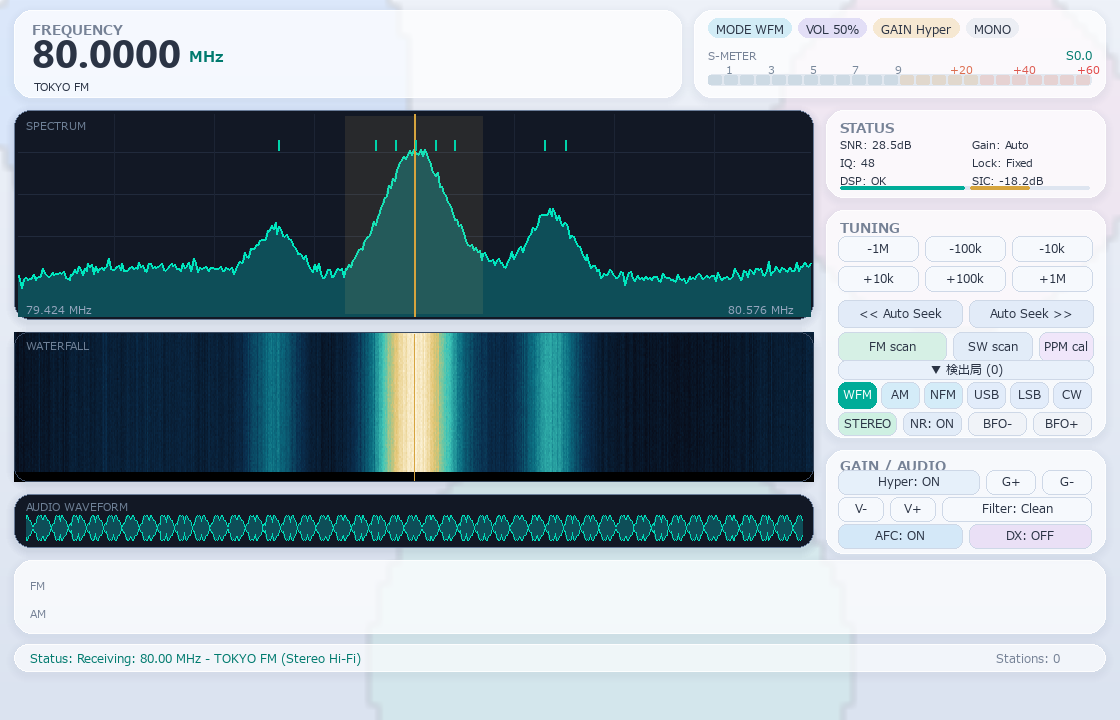
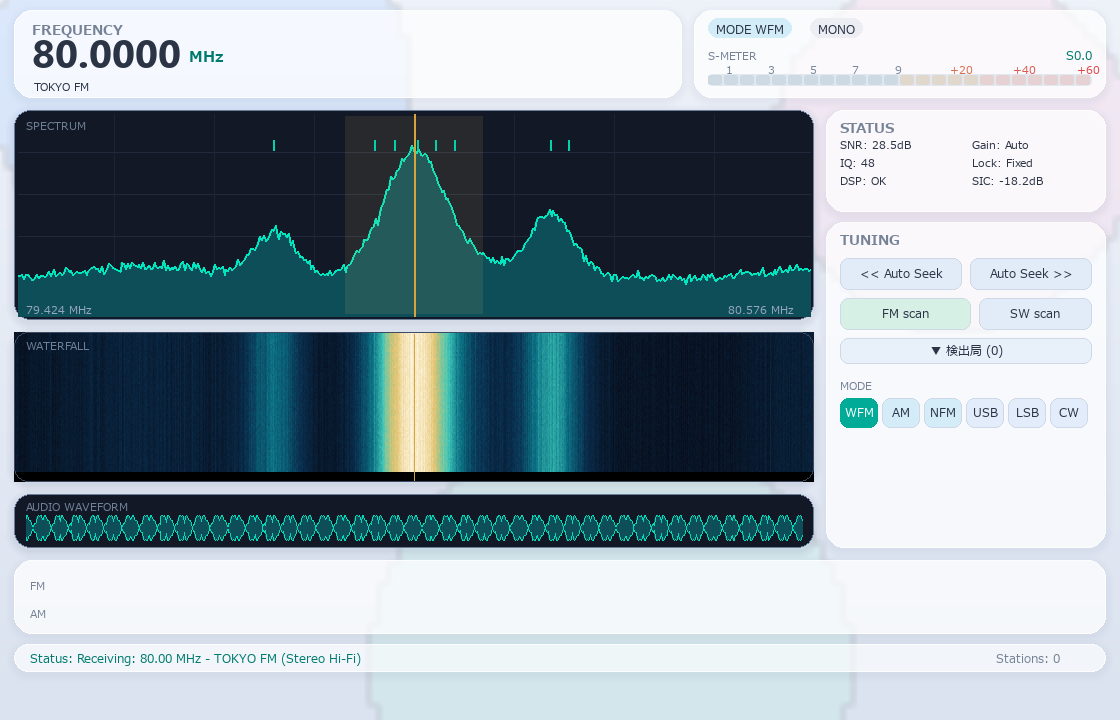
style(gui): rebalance into clean 2-panel sidebar and refine button layout

diff --git a/gui.py b/gui.py
@@ -239,9 +239,9 @@ class SdrGui:
         self.spec_rect = pygame.Rect(14, 110, 800, 210)
         self.wf_rect = pygame.Rect(14, 332, 800, 150)
         self.wave_rect = pygame.Rect(14, 494, 800, 54)
-        self.tele_rect = pygame.Rect(826, 110, 280, 88)
-        self.tune_rect = pygame.Rect(826, 210, 280, 228)
-        self.gain_rect = pygame.Rect(826, 450, 280, 104)
+        self.tele_rect = pygame.Rect(826, 110, 280, 102)
+        self.tune_rect = pygame.Rect(826, 222, 280, 326)
+        self.gain_rect = pygame.Rect(826, 548, 0, 0)
         self.preset_rect = pygame.Rect(14, 560, 1092, 74)
         self.status_rect = pygame.Rect(14, 644, 1092, 28)
 
@@ -357,9 +357,10 @@ class SdrGui:
         for name, rect in (
             ("hero", self.hero_rect), ("info", self.info_rect),
             ("tele", self.tele_rect), ("tune", self.tune_rect),
-            ("gain", self.gain_rect), ("preset", self.preset_rect),
+            ("preset", self.preset_rect),
         ):
             self.panels[name] = self._glass(rect.width, rect.height)
+        self.panels["gain"] = (pygame.Surface((1, 1), pygame.SRCALPHA), 0)
         self.panels["spec"] = self._glass(self.spec_rect.width, self.spec_rect.height,
                                           radius=16, tint=(17, 23, 36), dark=True)
         self.panels["wf"] = self._glass(self.wf_rect.width, self.wf_rect.height,
@@ -375,7 +376,7 @@ class SdrGui:
         for name, rect in (
             ("hero", self.hero_rect), ("info", self.info_rect),
             ("tele", self.tele_rect), ("tune", self.tune_rect),
-            ("gain", self.gain_rect), ("preset", self.preset_rect),
+            ("preset", self.preset_rect),
             ("spec", self.spec_rect), ("wf", self.wf_rect),
             ("wave", self.wave_rect), ("status", self.status_rect),
         ):
@@ -387,9 +388,6 @@ class SdrGui:
         baked.blit(lbl_tune, (self.tune_rect.x + 14, self.tune_rect.y + 8))
         lbl_mode = cached_text(self.font_tiny, t("mode"), C_MUTED)
         baked.blit(lbl_mode, (self.tune_rect.x + 14, self.tune_rect.y + 156))
-
-        lbl_gain = cached_text(self.font_title, t("gain_audio"), C_MUTED)
-        baked.blit(lbl_gain, (self.gain_rect.x + 14, self.gain_rect.y + 6))
 
         lbl_tele = cached_text(self.font_title, t("status"), C_MUTED)
         baked.blit(lbl_tele, (self.tele_rect.x + 14, self.tele_rect.y + 8))
@@ -456,22 +454,25 @@ class SdrGui:
     def _init_controls(self):
         btns = []
 
-        # ---- TUNINGパネル (周波数ステップは検出局プルダウンに一本化し廃止) ----
-        tx, tw = self.tune_rect.x + 12, self.tune_rect.width - 24
-        half = (tw - 6) // 2
-        self.btn_seek_prev = Button((tx, 300, half, 28), "<< Auto Seek", lambda: self._seek(-1),
+        # ---- TUNINGパネル (上からバランスよくゆったり配置) ----
+        tx, tw = self.tune_rect.x + 14, self.tune_rect.width - 28
+        half = (tw - 8) // 2
+        y_seek = self.tune_rect.y + 36
+        self.btn_seek_prev = Button((tx, y_seek, half, 32), "<< Auto Seek", lambda: self._seek(-1),
                                     bg_color=(226, 235, 248), active_color=C_BTN_ACTIVE2)
-        self.btn_seek_next = Button((tx + half + 6, 300, half, 28), "Auto Seek >>", lambda: self._seek(1),
+        self.btn_seek_next = Button((tx + half + 8, y_seek, half, 32), "Auto Seek >>", lambda: self._seek(1),
                                     bg_color=(226, 235, 248), active_color=C_BTN_ACTIVE2)
-        fm_w = int((tw - 6) * 0.55)
-        sw_w = tw - fm_w - 6
-        self.btn_scan_band = Button((tx, 332, fm_w, 30), t("scan_button"), self._request_scan,
+        fm_w = int((tw - 8) * 0.54)
+        sw_w = tw - 8 - fm_w
+        y_scan = y_seek + 32 + 8
+        self.btn_scan_band = Button((tx, y_scan, fm_w, 32), t("scan_button"), self._request_scan,
                                     bg_color=(214, 240, 229), active_color=C_ACCENT)
-        self.btn_scan_sw = Button((tx + fm_w + 6, 332, sw_w, 30), t("scan_sw_button"),
+        self.btn_scan_sw = Button((tx + fm_w + 8, y_scan, sw_w, 32), t("scan_sw_button"),
                                    self._request_sw_scan, bg_color=(226, 236, 248), active_color=C_ACCENT)
         btns.extend([self.btn_seek_prev, self.btn_seek_next, self.btn_scan_band, self.btn_scan_sw])
         # 検出局プルダウン (25局でもワンクリック選局)
-        self.btn_station_list = Button((tx, 360, tw, 20), "▼ 検出局 (0)",
+        y_list = y_scan + 32 + 8
+        self.btn_station_list = Button((tx, y_list, tw, 26), "▼ 検出局 (0)",
                                        self._toggle_station_list,
                                        bg_color=(232, 240, 250), active_color=C_BTN_ACTIVE2)
         btns.append(self.btn_station_list)
@@ -482,8 +483,9 @@ class SdrGui:
         # ローカルで組んで最後に一括差し替え (描画スレッドのitems()反復中の
         # dictサイズ変更によるRuntimeErrorを防止)
         mode_buttons = {}
+        y_mode = self.tune_rect.y + 176
         for i, (name, col) in enumerate(mode_defs):
-            b = Button((tx + i * (mw + gap), 382, mw, 27), name,
+            b = Button((tx + i * (mw + gap), y_mode, mw, 30), name,
                        (lambda m=name: self._set_mode(m)), bg_color=col)
             mode_buttons[name] = b
             btns.append(b)
@@ -492,11 +494,12 @@ class SdrGui:
         self.btn_am = self.mode_buttons["AM"]
         self.btn_nfm = self.mode_buttons["NFM"]
         # ステレオは自動ブレンドに一本化 (ボタン削除)。BFO微調整のみ (SSB・CW時に表示)
-        gap2 = 6
+        gap2 = 8
         hw = (tw - gap2) // 2
-        self.btn_bfo_down = Button((tx, 412, hw, 24), "BFO-",
+        y_bfo = y_mode + 30 + 10
+        self.btn_bfo_down = Button((tx, y_bfo, hw, 26), "BFO-",
                                    lambda: self._step_bfo(-50), bg_color=(240, 243, 248))
-        self.btn_bfo_up = Button((tx + hw + gap2, 412, hw, 24), "BFO+",
+        self.btn_bfo_up = Button((tx + hw + gap2, y_bfo, hw, 26), "BFO+",
                                  lambda: self._step_bfo(50), bg_color=(240, 243, 248))
         btns.extend([self.btn_bfo_down, self.btn_bfo_up])
 

diff --git a/tests/test_mock_worker.py b/tests/test_mock_worker.py
@@ -142,7 +142,8 @@ def main() -> int:
             assert frames[0] > f2, "streaming did not resume after failed scan"
 
             app.tuner.discovered_stations = []
-            click(1031, 314)  # Auto Seek >>
+            r_seek = app.gui.btn_seek_next.rect
+            click(r_seek.centerx, r_seek.centery)  # Auto Seek >>
             time.sleep(1.5)
             assert len(scans) == 3 and scans[2] is False, f"seek scan raced: {scans}"
             assert fake.sync_while_active == 0, "read_sync ran while async stream active"
